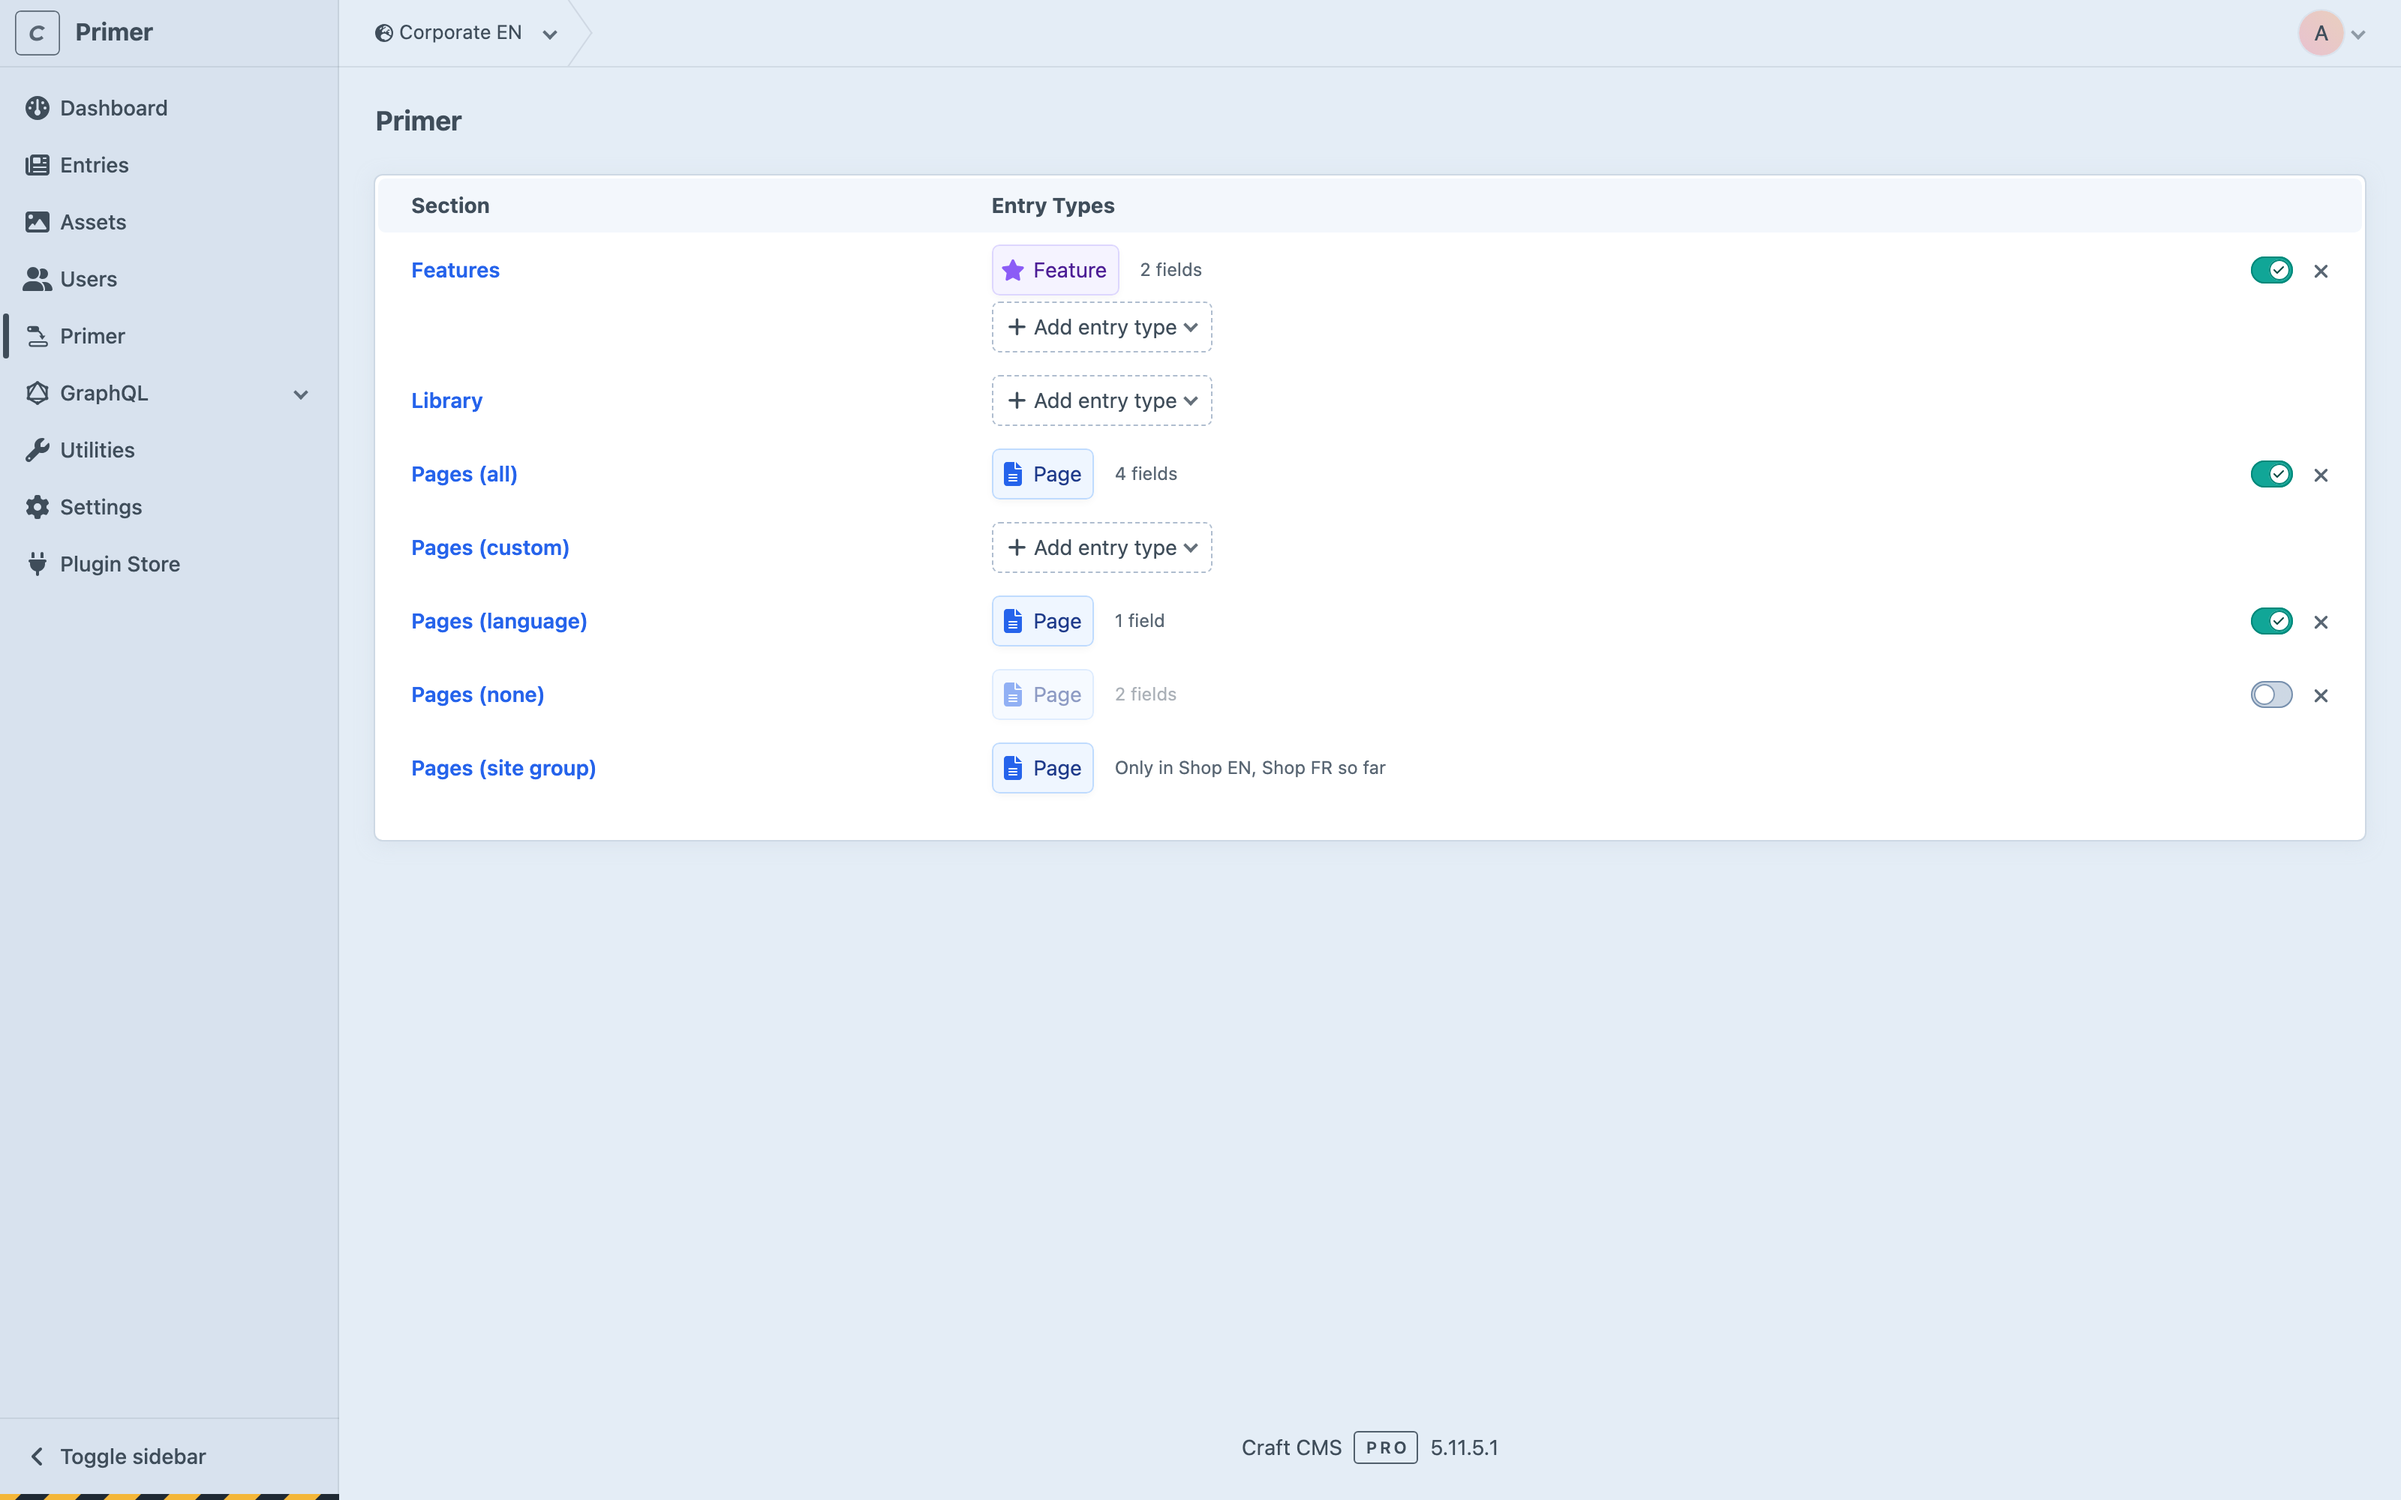
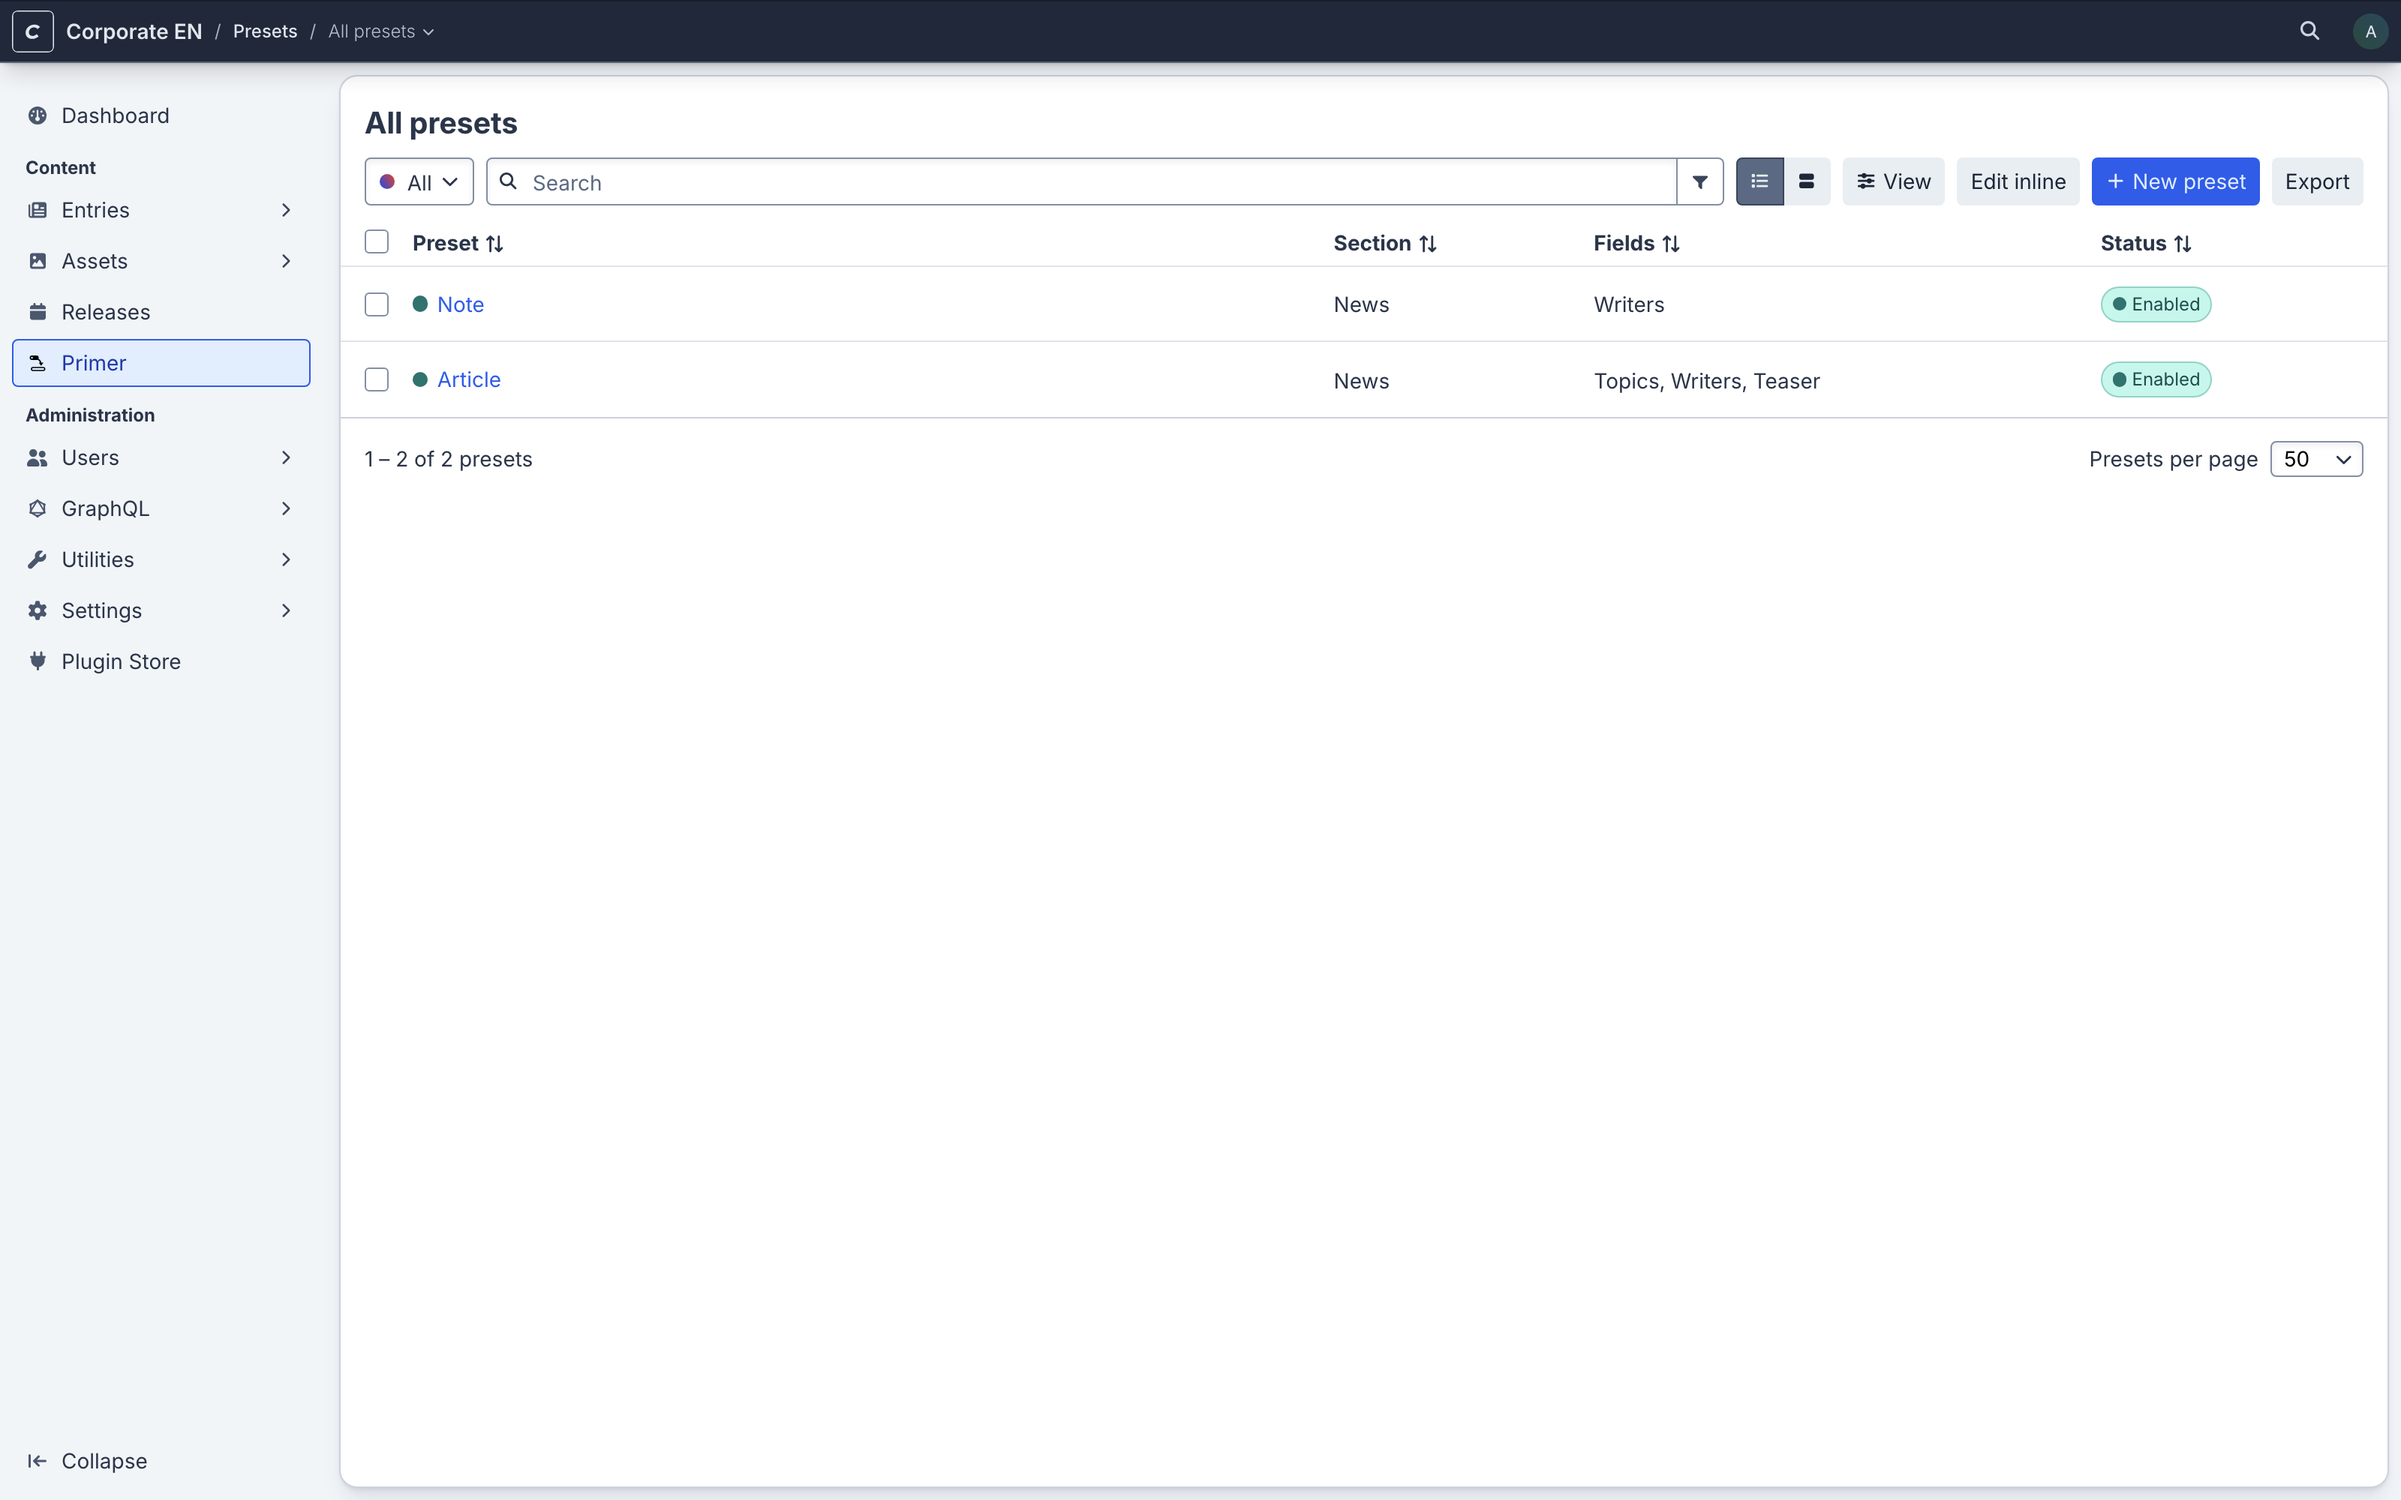
Document Primer 2 for Craft 6 and run CI on PHP 8.5
The README, the release notes and the agent and coding guides describe
Craft's element index and editor, and the screenshots show them. CI runs
the checks and both suites on SQLite, MySQL and Postgres. The browser
smoke suite and its Node tooling go: Craft now owns the screens it drove.

diff --git a/README.md b/README.md
@@ -4,20 +4,20 @@
 
 Set the right defaults for your entries, if needed. Primer holds presets for the relation fields of new entries in Craft CMS. An editor creates a *News › Article*, and its Topics, Authors and Hero Image fields already hold what the site usually wants there. Primer fills them once, when the entry is created, writes only into empty fields, and never touches the entry again.
 
-![The Primer index: sections, their entry types with a preset, and a switch for each in this site](resources/screenshot-index.png)
+![Primer's index: the presets of this site, with their section, fields and status](resources/screenshot-index.png)
 
 ## How it works
 
-- **Presets per section and entry type.** A preset belongs to one entry type in one section. You pick which of the entry type's relation fields it holds (Entries, Assets and Users fields) and fill them in Craft's own fields, the way you would on an entry.
+- **Presets per section and entry type.** A preset belongs to one entry type in one section. You pick which of the entry type's relation fields it holds (Entries, Assets and Users fields) and fill them in Craft's own fields, in Craft's own element editor, the way you would on an entry.
 - **Across sites, like an entry.** A preset spans the sites a new entry of its section would be saved to: every site with *All* propagation, the site group or language with *Site group* or *Language*, one site with *None*. Its values propagate and translate exactly as the entry's do, because they are the same fields. Each site can switch the preset on or off. A site has one preset per entry type: after a site is added to a section, or its propagation method changes, a new preset spans only the sites no preset holds yet.
 - **Once, into empty fields.** When an entry is created, or switches entry type, Primer looks up the preset for its section, entry type and site and copies its elements into the fields that are still empty. A field that already holds something is left alone, and a field with a maximum gets no more than that. After that the entry is the editor's. It works wherever entries are created: the control panel, slideouts, the console, migrations, Feed Me and other imports.
 - **Content Blocks.** A Content Block field whose layout holds relation fields can go into a preset as a whole. Inside the preset it shows only those relation fields, and each one fills the entry's block if it's empty there; the block's other values stay.
 
-![A preset in a slideout: four relation fields, and its status in every site of its scope](resources/screenshot-preset.png)
+![A preset in Craft's element editor: its fields, and its status in every site of its scope](resources/screenshot-preset.png)
 
 ## Requirements
 
-Craft CMS 5.11.5 or later, PHP 8.2 or later. Several sites need Craft Pro; on a single site Primer works with any edition.
+Craft CMS 6.0.0-beta.1 or later, PHP 8.5 or later. Several sites need Craft Pro; on a single site Primer works with any edition. For Craft CMS 5, use Primer 1.x.
 
 ## Installation
 
@@ -27,22 +27,26 @@ With Composer:
 
 ```bash
 composer require davidhellmann/craft-primer
-php craft plugin/install primer
+php artisan craft:plugin/install primer
 ```
 
 ## Usage
 
-Primer adds its own section to the control panel, with three screens:
+Primer's section of the control panel is Craft's own element index and element editor, for presets:
 
-- **Index**: every section of the current site, with its entry types that have a preset. Each line shows the entry type, how many fields its preset holds, a switch that turns the preset on or off for this site, and a × to delete it. *+ Add entry type* starts a preset for another one.
-- **Section page**: the section's entry types, each with the fields of its preset, or *+ Add preset*.
-- **Preset**: the chosen fields, filled like on an entry. *+ Add field* adds one, the × in its heading removes it. The sidebar has the preset's status for each site it spans.
+- **Index**: the presets of the current site, with their section, fields and status. *All presets* lists every one; each section has a source of its own. Craft's actions switch presets on or off and delete them.
+- **New preset**: starts a preset in the section the index shows, with an entry type that has no preset there yet. Until it's created, you can pick another section and entry type.
+- **Preset**: *Fields* lists the fields the preset holds, with *Add item* to add one of the entry type's relation fields and a × to remove one. The chosen fields follow, filled like on an entry. The sidebar has the preset's status in each site it spans.
 
-A click on a section or entry type opens its page, a double-click opens the same screen in a slideout over the one you're on. Cmd/Ctrl-click opens it in a new tab. Every screen is about one site, picked with Craft's site menu at the top.
+Presets open as a page or in a slideout, like entries. Every screen is about one site, picked with Craft's site menu at the top.
 
-Users need the *Access Primer* permission. Saving, switching or deleting a preset in a site also needs permission to edit that site, and only that one. As with Craft's entries, what a preset shares across its scopes reaches sites the user can't edit: the choice of fields, a field taken out of it being emptied, and deleting the preset in every scope.
+Users need the *Access Primer* permission. Saving or deleting a preset in a site also needs permission to edit that site, and only that one. As with Craft's entries, what a preset shares across its scopes reaches sites the user can't edit: the choice of fields, a field taken out of it being emptied, and deleting the preset in every scope.
 
 Presets are content, not project config: set them up in each environment. They work with `allowAdminChanges` off. Uninstalling Primer deletes every preset.
+
+## Upgrading from Primer 1.x
+
+Upgrade the project to Craft 6, then require Primer 2. Primer 2 keeps Primer 1's table, element type and schema version, so presets, their fields, values and statuses carry over as they are.
 
 ## Good to know
 
@@ -56,11 +60,9 @@ Primer fills a new entry once, and only its empty fields. That has a few consequ
 
 **Logging.** Each entry Primer fills gets one info line in Craft's log, naming the fields. A preset that can't be applied never stops the entry's save: Primer logs a warning and the entry saves without it.
 
-**No copying between sites.** Unlike an entry's fields, a preset's have no *Copy value from site…* in their ⋯ menu. Switch to the other site and pick the elements there.
-
 **Custom propagation.** In a section with *Custom* propagation, a preset spans only the site it was made in, so every site needs its own. The control panel doesn't say so.
 
-**Not covered.** Categories and Tags fields; entries nested in Matrix or CKEditor fields; Content Blocks inside Content Blocks. A preset holds fields placed directly in the entry type's layout, and Content Blocks one level deep.
+**Not covered.** Entries nested in Matrix or CKEditor fields; Content Blocks inside Content Blocks. A preset holds fields placed directly in the entry type's layout, and Content Blocks one level deep.
 
 ## License
 

diff --git a/CODING_STANDARDS.md b/CODING_STANDARDS.md
@@ -6,13 +6,13 @@ What a reviewer judges, because no tool can. What a tool can check belongs in a 
 
 A decision that doesn't need Craft to be made (whether to apply a preset, how many relations fit a field, which sites a preset spans, which fields a choice keeps) lives in a small class that takes plain values and returns plain values. Craft objects are read and written around it, not inside it.
 
-*Why:* the `unit` suite tests these decisions without Craft and without a database, so a case is a line, not an install. The `integration` suite then only has to prove the wiring.
+*Why:* the `unit` suite tests these decisions without Craft and without a database, so a case is a line, not an install. The `feature` suite then only has to prove the wiring.
 
-## Craft's own markup and colours
+## Craft's own screens and controls
 
-The control panel uses Craft's tables, chips, menus, lightswitches, status fields, slideouts and crumbs. Colour and icons come only from Craft's models, such as an entry type's own icon and colour. No invented badges, accents or colours.
+The control panel is Craft's element index and element editor, and what Primer adds to them goes through Craft's APIs: sources, table attributes, actions, field layout elements and `Ui` controls. No templates, scripts or styles of Primer's own. Colour and icons come only from Craft's models, such as an entry type's own icon and colour.
 
-*Why:* Primer should look like a part of Craft and keep doing so when Craft's styles change.
+*Why:* Primer should look and work like a part of Craft, and keep doing so when Craft's control panel changes.
 
 ## One meaning, one wording
 

diff --git a/CHANGELOG.md b/CHANGELOG.md
@@ -1,5 +1,19 @@
 # Release Notes for Primer
 
+## 2.0.0-beta.1 - Unreleased
+
+### Changed
+- Primer now requires Craft CMS 6 (6.0.0-beta.1 or later) and PHP 8.5. Primer 1.x stays the version for Craft CMS 5.
+- Primer runs on Craft 6 directly, without the Yii 2 adapter.
+- Primer's section of the control panel is Craft's own element index of presets, with a source for each section, and each preset opens in Craft's element editor, as a page or in a slideout.
+- A preset's fields are chosen in its *Fields*, at the top of the editor: *Add item* adds one, × removes it.
+- *New preset* starts a preset in the section the index shows, with an entry type that has no preset there yet; its section and entry type can be changed until it's created.
+- Presets are switched on and off, per site, with Craft's status field and *Set Status* action, and deleted with Craft's *Delete* action.
+- Install Primer with `php artisan craft:plugin/install primer`.
+
+### Removed
+- Primer's own index, section page and preset screen, with their lightswitches, delete buttons and slideout crumbs. Craft's element index and editor do all of it.
+
 ## 1.0.0 - 2026-10-22
 
 ### Added

diff --git a/GLOSSARY.md b/GLOSSARY.md
@@ -12,6 +12,10 @@ _Avoid_: Default, prefill, default relation. The one exception is the tagline, "
 The sites a preset spans: those a new entry of its section, created in the preset's site, would be saved to, except sites another preset of the same entry type already holds. One preset element per scope, so a section that doesn't propagate to every site has several presets of an entry type; they share their choice of fields, and every site belongs to one of them.
 _Avoid_: Site group (Craft's own term), propagation group
 
+**Field choice**:
+The fields of its entry type a preset holds, picked in the preset's *Fields*. The same for every preset of the entry type in a section, in every scope; a field taken out of it is emptied in all of them, and starts empty when it's chosen again.
+_Avoid_: Selected fields, preset fields
+
 **Relation field**:
 A field that relates entries, assets or users: an Entries, Assets or Users field. Primer treats them alike. Categories and Tags fields are not relation fields in Primer's sense.
 _Avoid_: Element field, reference field

diff --git a/CLAUDE.md b/CLAUDE.md
@@ -1,5 +1,5 @@
 ## Working on Primer
 
 - Use the terms in `GLOSSARY.md` in code, UI and docs.
-- The checks every change must pass are the steps in `.github/workflows/ci.yml`. Run them before you finish; the integration and multisite suites need a test database, set in `tests/.env` (copy `tests/.env.example`).
-- The browser smoke suite (`npm ci`, then `npm test`) installs its own Craft into the database set in `tests/browser/.env` (copy `tests/browser/.env.example`; every table in it is dropped), serves it with `php craft serve` and drives the control panel with Playwright.
+- The checks every change must pass are the steps in `.github/workflows/ci.yml`. Run them before you finish: `composer check-cs`, `composer phpstan` and `composer test`. The tests need no database server: they run Craft on in-memory SQLite. CI also runs them on MySQL and Postgres.
+- Primer's control panel is Craft's own element index and element editor. Before adding a screen, template or script of Primer's own, look for the Craft API that already does it.
